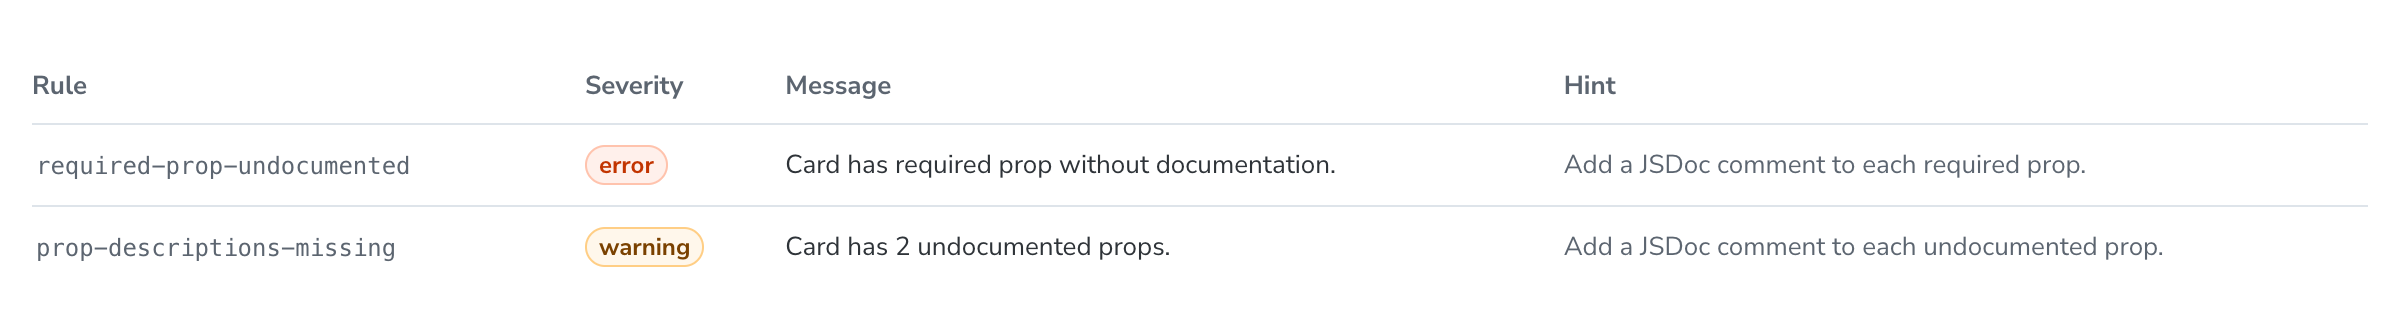
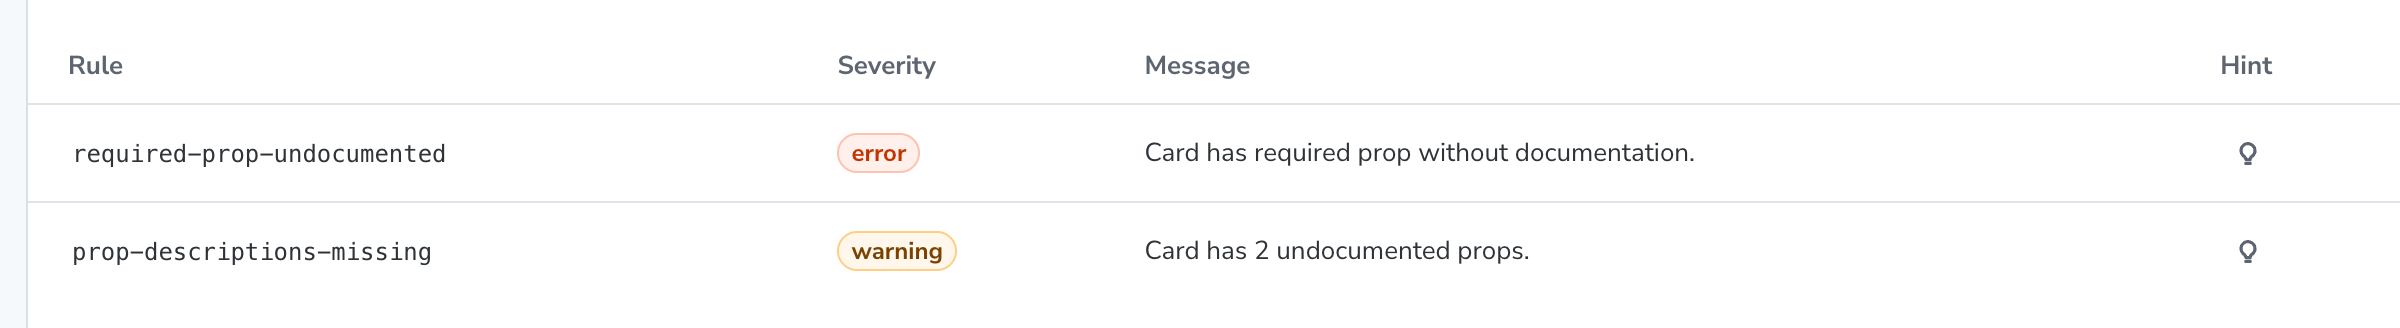
feat: open the hint popup on keyboard focus, and refresh the demo shots
The popup is ours now. Storybook's tooltip opens itself on pointer and
supplies its own handlers to whatever it wraps, so focus could not be added
without taking its pointer handling over and losing hover. This keeps its
note as the popup's face and owns only when to show it and where to put it:
pointer with the same delays, focus, and Escape to dismiss.

It renders at the document root because the lightbulb sits in a scrolling
region, which would otherwise clip it, and it clamps itself back inside the
viewport near an edge. It is hidden from the accessibility tree: the button
already names itself with the hint, so announcing it twice is the only thing
the popup could add there.

The lightbulb takes the hit area the page's other icon controls have, 28
square around a 14px glyph, muted until hovered.

Every demo screenshot and the panel GIF are recaptured. They were taken
before the spacing, the rail, the fonts, the hint column and the lightbulb,
so all five showed a report that no longer renders.

diff --git a/packages/storybook-addon-oversight/src/components/ReportView.tsx b/packages/storybook-addon-oversight/src/components/ReportView.tsx
@@ -1,7 +1,8 @@
-import { Fragment } from 'react';
+import { Fragment, useEffect, useLayoutEffect, useRef, useState } from 'react';
 import type { ComponentType, ReactNode } from 'react';
+import { createPortal } from 'react-dom';
 import { CheckIcon, CrossIcon, LightbulbIcon } from './icons';
-import { Badge, EmptyTabContent, TooltipNote, TooltipProvider } from 'storybook/internal/components';
+import { Badge, EmptyTabContent, TooltipNote } from 'storybook/internal/components';
 import { styled } from 'storybook/theming';
 import type { ComponentReport, Finding, Severity } from 'oversight-core';
 import { summarizeError } from 'oversight-core';
@@ -230,33 +231,156 @@ const FindingBody = styled.div(({ theme }) => ({
  */
 const HintButton = styled.button(({ theme }) => ({
   display: 'inline-flex',
+  alignItems: 'center',
   verticalAlign: 'middle',
-  padding: 2,
+  // a 28px box around the 14px glyph: the glyph alone is a fiddly pointer
+  // target next to the icon-only controls elsewhere on the page, which all
+  // offer a hit box this size
+  height: 28,
+  padding: '0 7px',
   border: 0,
   borderRadius: 4,
   background: 'none',
   color: theme.textMutedColor,
   cursor: 'pointer',
-  '&:hover': { color: theme.color.secondary },
+  '&:hover': {
+    color: theme.color.secondary,
+    // the same wash the page's other icon-only controls light up with; from
+    // the token, so both themes keep agreeing on the hue
+    background: `color-mix(in srgb, ${theme.color.secondary} 14%, transparent)`,
+  },
   '&:focus-visible': {
     outline: `2px solid ${theme.color.secondary}`,
+    outlineOffset: 2,
     color: theme.color.secondary,
   },
   '& svg': { display: 'block' },
 }));
 
+// A pointer crossing the table on its way somewhere else should not flash a
+// note over every row it passes, so showing waits. Hiding waits less: just
+// long enough that grazing off the trigger's edge and back does not blink
+// the note.
+const HINT_SHOW_DELAY_MS = 400;
+const HINT_HIDE_DELAY_MS = 200;
+// Above the trigger with a small gap, so the note never sits on the lightbulb
+// the pointer occupies.
+const HINT_GAP = 8;
+
+/**
+ * Positioning only; the note inside carries its own paint. The note cannot
+ * sit inside the row: `TableScroll` scrolls one axis, which makes the
+ * browser clip the other, so anything hanging out of a row is cut off at
+ * the table's edge. Fixed-to-the-viewport in a body-level portal escapes
+ * every scroll container at once. The z-index has to clear whatever either
+ * surface stacks above the report (toolbars, overlays).
+ */
+const HintPopup = styled.div({
+  position: 'fixed',
+  zIndex: 100000,
+  // anchored by the trigger's top-center, so the note hangs above it
+  transform: 'translate(-50%, -100%)',
+  // the note overlays the row above; it must never steal that row's pointer
+  // events, and leaving it hoverable would also let the pointer "land" on it
+  // and fight the trigger's own leave timer
+  pointerEvents: 'none',
+});
+
 /** No hint, no trigger: a dimmed lightbulb would promise an answer that does
  *  not exist (`deprecated-tag` reports a fact and has nothing to add). */
 function HintTrigger({ hint }: { hint: string }) {
-  // The lightbulb reveals the hint on pointer. Its accessible name carries the
-  // hint text as well, so the fix reaches a screen reader without opening
-  // anything: the popup is the sighted convenience, not the only copy.
+  // The lightbulb reveals the hint on pointer or on keyboard focus. Its
+  // accessible name carries the hint text as well, so the fix reaches a
+  // screen reader without opening anything: the popup is the sighted
+  // convenience, not the only copy. The popup is aria-hidden for the same
+  // reason: announced too, the same sentence would read twice.
+  const buttonRef = useRef<HTMLButtonElement>(null);
+  const popupRef = useRef<HTMLDivElement>(null);
+  const timerRef = useRef<ReturnType<typeof setTimeout> | undefined>(undefined);
+  const [anchor, setAnchor] = useState<{ top: number; left: number } | null>(null);
+
+  // The note is one unwrapped line anchored to a trigger that can sit against
+  // the viewport's edge, so centering can hang part of it past that edge,
+  // where a viewport-fixed element is cropped. Its width is only
+  // measurable once it is in the DOM, so it is nudged back inside between
+  // render and paint.
+  useLayoutEffect(() => {
+    const note = popupRef.current;
+    if (anchor === null || note === null) return;
+    const rect = note.getBoundingClientRect();
+    // a zero-width rect means the environment does not lay out (headless DOMs
+    // report every box as empty), and shifting on it never converges: the box
+    // stays at zero wherever it is moved, so each pass asks for another shift
+    if (rect.width === 0) return;
+    let shift = 0;
+    if (rect.right > window.innerWidth - HINT_GAP) shift = window.innerWidth - HINT_GAP - rect.right;
+    // the left edge wins when both overflow: a sentence reads from its start
+    if (rect.left + shift < HINT_GAP) shift = HINT_GAP - rect.left;
+    if (Math.abs(shift) > 0.5) setAnchor({ top: anchor.top, left: anchor.left + shift });
+  }, [anchor]);
+
+  const cancelPending = () => {
+    if (timerRef.current !== undefined) {
+      clearTimeout(timerRef.current);
+      timerRef.current = undefined;
+    }
+  };
+  // a show still pending when the row re-renders away would fire against an
+  // unmounted component
+  useEffect(() => cancelPending, []);
+
+  const open = () => {
+    const rect = buttonRef.current?.getBoundingClientRect();
+    if (!rect) return;
+    // read at open, in viewport coordinates: the popup is viewport-fixed, so
+    // the client rect places it correctly however far the page and the table
+    // have scrolled by then
+    setAnchor({ top: rect.top - HINT_GAP, left: rect.left + rect.width / 2 });
+  };
+  const close = () => setAnchor(null);
+  const schedule = (step: () => void, afterMs: number) => {
+    cancelPending();
+    timerRef.current = setTimeout(step, afterMs);
+  };
+
   return (
-    <TooltipProvider tooltip={<TooltipNote note={hint} />}>
-      <HintButton type="button" aria-label={`Hint: ${hint}`}>
+    <>
+      <HintButton
+        ref={buttonRef}
+        type="button"
+        aria-label={`Hint: ${hint}`}
+        onPointerEnter={() => schedule(open, HINT_SHOW_DELAY_MS)}
+        onPointerLeave={() => schedule(close, HINT_HIDE_DELAY_MS)}
+        // no delay on focus: a keyboard user has already singled the trigger
+        // out by landing on it, so there is no pass-through to filter out
+        onFocus={() => {
+          cancelPending();
+          open();
+        }}
+        onBlur={() => {
+          cancelPending();
+          close();
+        }}
+        onKeyDown={(event) => {
+          if (event.key !== 'Escape' || anchor === null) return;
+          // the note must be dismissible without moving focus (WCAG 1.4.13),
+          // and dismissing it must not also fire whatever the surrounding UI
+          // binds to the same key
+          event.stopPropagation();
+          cancelPending();
+          close();
+        }}
+      >
         <LightbulbIcon />
       </HintButton>
-    </TooltipProvider>
+      {anchor !== null &&
+        createPortal(
+          <HintPopup ref={popupRef} aria-hidden="true" style={{ top: anchor.top, left: anchor.left }}>
+            <TooltipNote note={hint} />
+          </HintPopup>,
+          document.body,
+        )}
+    </>
   );
 }
 // Both tables name their rows in the first column, so both take the body color:

diff --git a/packages/storybook-addon-oversight/src/components/ReportView.test.tsx b/packages/storybook-addon-oversight/src/components/ReportView.test.tsx
@@ -1,7 +1,7 @@
 // @vitest-environment happy-dom
 import { afterEach, describe, expect, it } from 'vitest';
 import type { ReactElement } from 'react';
-import { cleanup, render } from '@testing-library/react';
+import { cleanup, fireEvent, render } from '@testing-library/react';
 import { ThemeProvider, ensure, themes } from 'storybook/theming';
 import { ReportView } from './ReportView';
 import { buildReport, resolveManifestRefs } from 'oversight-core';
@@ -407,9 +407,8 @@ describe('ReportView report rendering', () => {
     expect(first?.textContent?.trim()).toBe('required-prop-undocumented');
   });
 
-  // The hint column is gone; the hint now rides the message cell as a button.
   // A screen-reader user gets the fix from the button's own name, without
-  // having to open the tooltip it also triggers.
+  // having to open the popup it also triggers.
   it('names the hint trigger with the hint text itself', () => {
     const manifest = {
       meta: { docgen: 'react-docgen-typescript' },
@@ -440,6 +439,52 @@ describe('ReportView report rendering', () => {
     expect(trigger!.closest('td')).toBe(row.lastElementChild);
     const heads = [...row.closest('table')!.querySelectorAll('thead th')].map((th) => th.textContent?.trim());
     expect(heads).toEqual(['Rule', 'Severity', 'Message', 'Hint']);
+  });
+
+  // The trigger used to open on pointer only, so a keyboard user could land
+  // on the lightbulb and get nothing back.
+  it('opens the popup on keyboard focus, closes it on blur, and dismisses it on Escape', () => {
+    const manifest = {
+      meta: { docgen: 'react-docgen-typescript' },
+      components: {
+        'ex-button': {
+          name: 'Button',
+          path: './Button.stories.tsx',
+          reactDocgenTypescript: {
+            description: 'A button.',
+            props: { label: { description: '', required: true, declarations: [] } },
+          },
+        },
+      },
+    } as unknown as RawManifest;
+    const report = buildReport(manifest, 'ex-button');
+    const hint = report.findings.find((d) => d.rule === 'required-prop-undocumented')?.hint;
+    expect(hint).toBeTruthy();
+
+    const { container } = renderView(<ReportView status="ready" report={report} debuggerUrl={DEBUGGER_URL} />);
+    const trigger = [...container.querySelectorAll('button')].find((b) =>
+      b.getAttribute('aria-label')?.includes(hint!),
+    )!;
+    // the popup portals to the body so the table's scroll container cannot
+    // clip it, which is where a test has to look for it too
+    const popup = () => [...document.body.children].find((el) => el !== container && el.textContent?.includes(hint!));
+
+    expect(popup()).toBeUndefined();
+    fireEvent.focus(trigger);
+    const shown = popup();
+    expect(shown).toBeTruthy();
+    // a visual duplicate of the button's own accessible name; announced too,
+    // the hint would read twice
+    expect(shown!.getAttribute('aria-hidden')).toBe('true');
+
+    // dismissible without moving focus (WCAG 1.4.13)
+    fireEvent.keyDown(trigger, { key: 'Escape' });
+    expect(popup()).toBeUndefined();
+
+    fireEvent.focus(trigger);
+    expect(popup()).toBeTruthy();
+    fireEvent.blur(trigger);
+    expect(popup()).toBeUndefined();
   });
 
   it('renders no trigger at all for a finding without a hint', () => {
